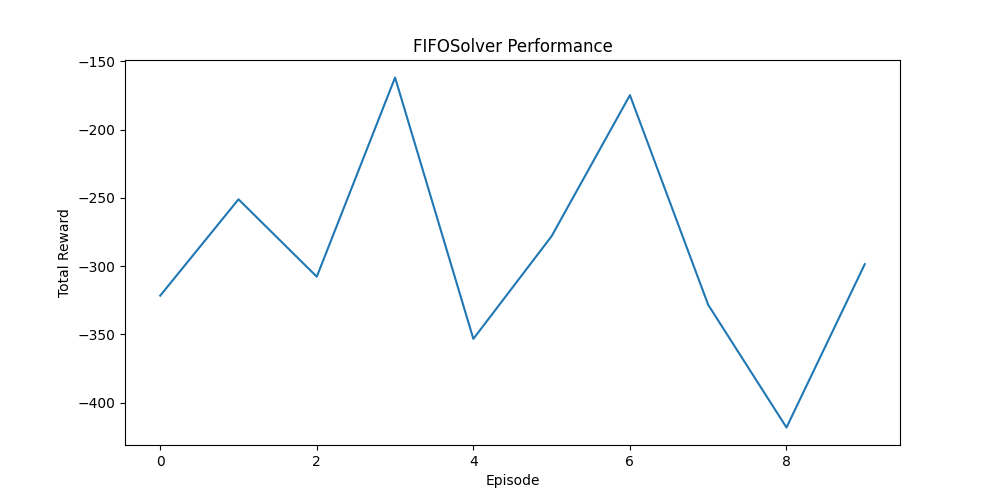
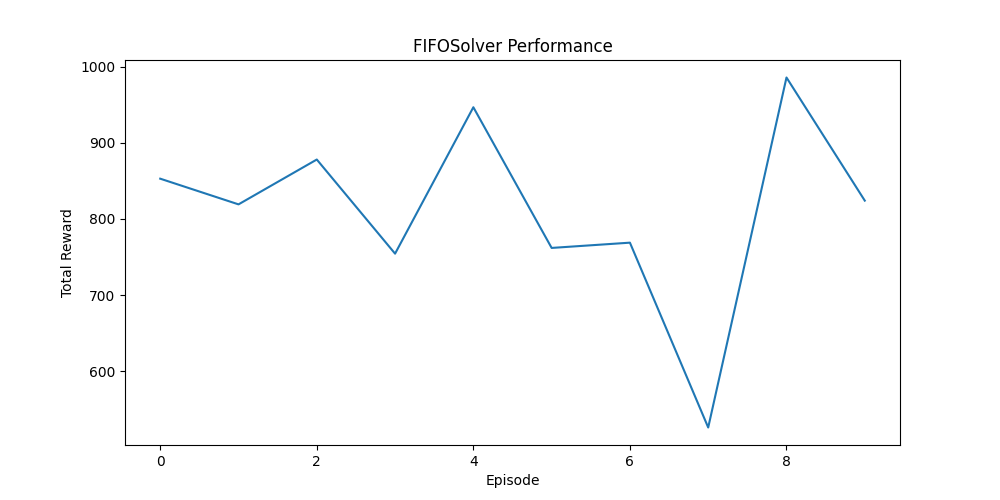
add more metrics

diff --git a/Elevators/envs/simple_elevators.py b/Elevators/envs/simple_elevators.py
@@ -176,7 +176,7 @@ class ElevatorEnv(gym.Env):
         )
         num_passengers_in_hall = len(self.waiting)
         if num_passengers_in_car == 0 and num_passengers_in_hall == 0 and self.current_passengers == 0:
-            return self._obs(), 0.0, True, False, self._info()
+            return self._obs(), 1000.0, True, False, self._info()
         
         floor, car_idx = action
         car = self.cars[car_idx]
@@ -296,6 +296,7 @@ class ElevatorEnv(gym.Env):
             p.t_board = self.time
             car.passengers.append(p)
             self.waiting.remove(p)
+            self.board_reward += 1
             is_changed = True
 
         still_waiting = len(waiting_same_dir) > len(boardable)
@@ -339,8 +340,9 @@ class ElevatorEnv(gym.Env):
             for p in car.passengers:
                 if p.t_board is not None:
                     r += self.time - p.t_board
-        reward = -(w + r) * 1e-3 + self.arrival_reward
+        reward = -(w + r) * 1e-3 + self.arrival_reward + self.board_reward
         self.arrival_reward = 0.0
+        self.board_reward = 0.0
         # print(f"reward: {-(w + r) * 1e-3:.2f}, w = {w:.2f}, r = {r:.2f}")
         return reward
 
@@ -432,6 +434,7 @@ class ElevatorEnv(gym.Env):
         self.done: List[Passenger] = []
         self.current_event: Optional[Event] = None
         self.arrival_reward: float = 0.0
+        self.board_reward: float = 0.0
 
         self.current_passengers: int = self.total_passengers
         self.t_passenger_arrival: Optional[float] = np.inf
